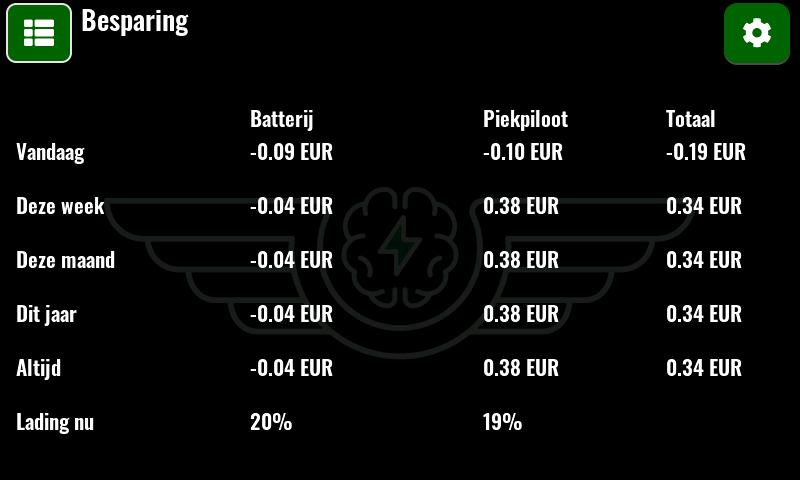
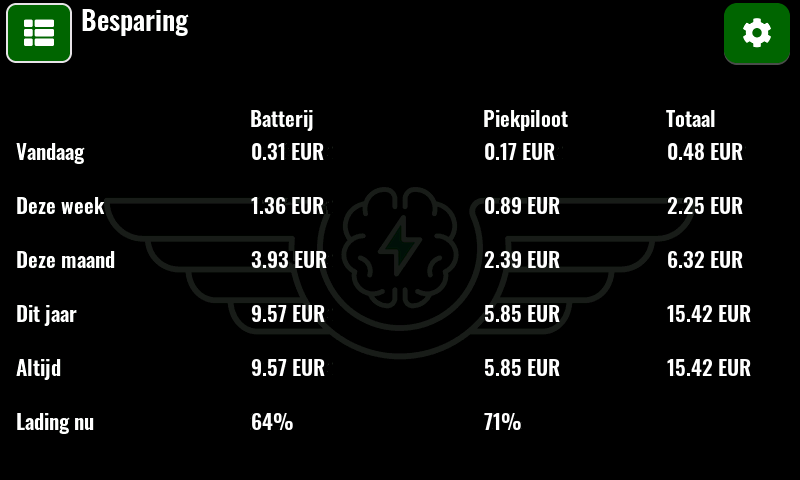
Productpagina: Besparing en Per dag met voorbeeldwaarden (zo vermeld)

diff --git a/piekpiloot.html b/piekpiloot.html
@@ -122,11 +122,11 @@
         </figure>
         <figure class="scherm">
           <img src="img/scherm/besparing.png" width="800" height="480" loading="lazy" alt="Scherm Besparing van de Piekpiloot">
-          <figcaption><strong>Besparing</strong> Wat de batterij en de Piekpiloot opleveren, per dag, week, maand en jaar.</figcaption>
+          <figcaption><strong>Besparing</strong> Wat de batterij en de Piekpiloot opleveren, per dag, week, maand en jaar (voorbeeldwaarden).</figcaption>
         </figure>
         <figure class="scherm">
           <img src="img/scherm/per-dag.png" width="800" height="480" loading="lazy" alt="Scherm Per dag van de Piekpiloot">
-          <figcaption><strong>Per dag</strong> Geladen, ontladen en bespaard over de laatste 30 dagen.</figcaption>
+          <figcaption><strong>Per dag</strong> Geladen, ontladen en bespaard over de laatste 30 dagen (voorbeeldwaarden).</figcaption>
         </figure>
       </div>
     </div>
